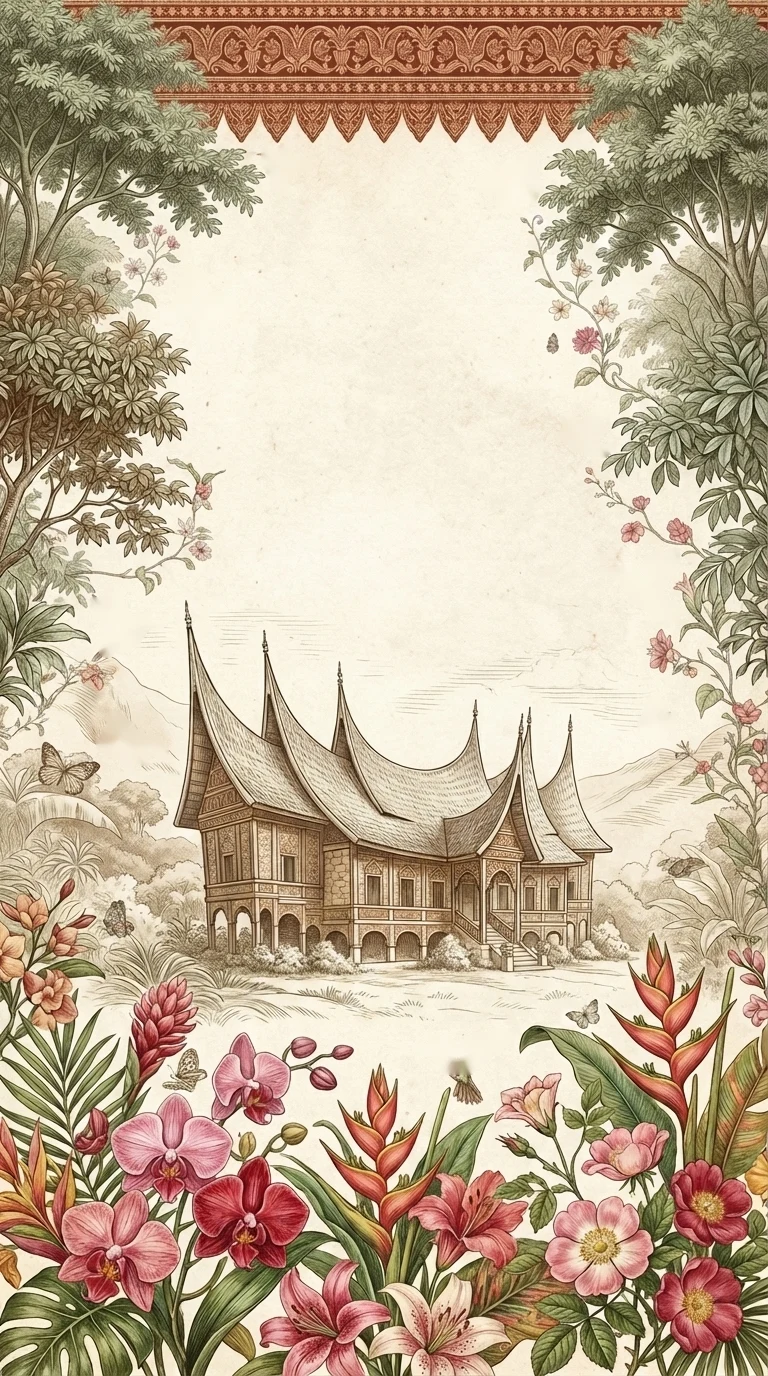
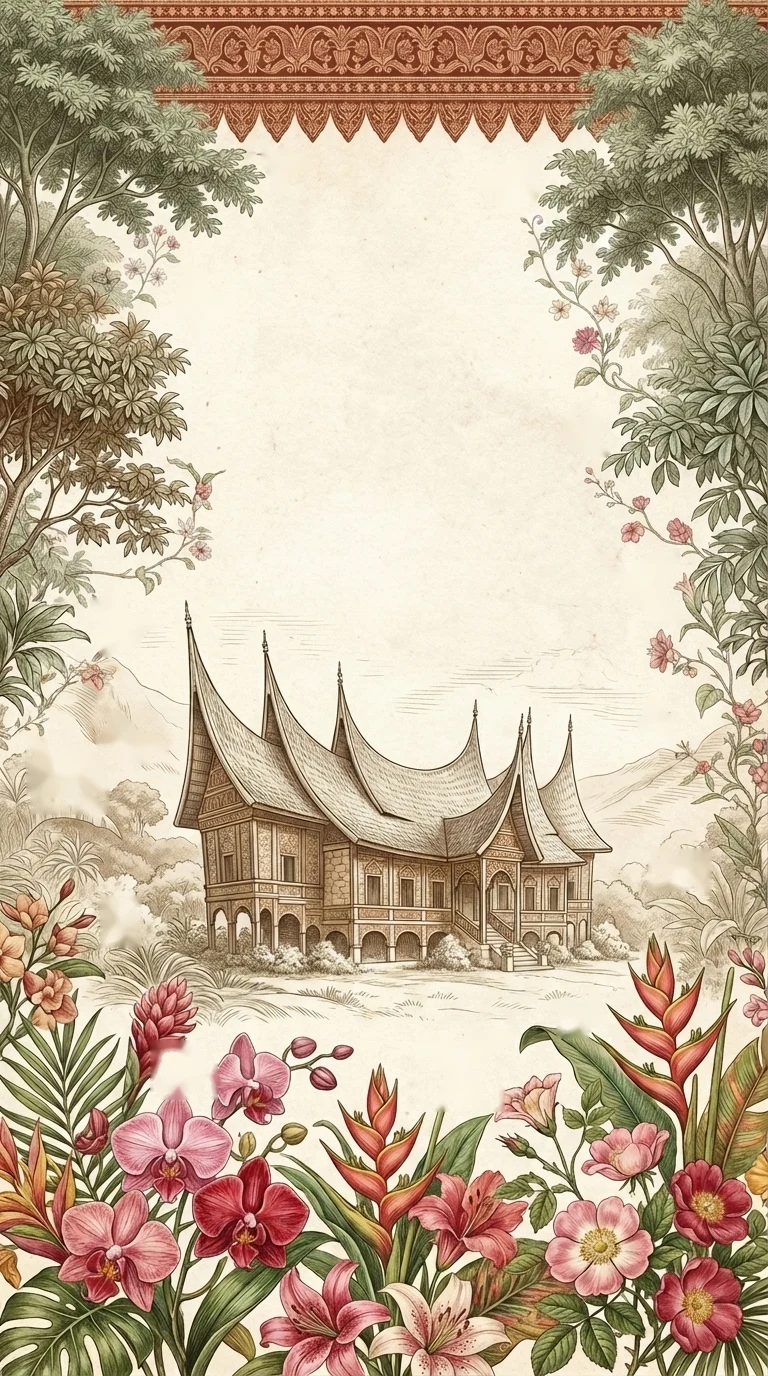
Pembuka tirai bunga & pohon, burung siluet hitam, kupu-kupu pelan di area bunga, hapus kartu tamu
Claude-Session: https://claude.ai/code/session_01MxgjQbkmSSvvZDtBi8Ronz

diff --git a/index.html b/index.html
@@ -48,25 +48,31 @@ main{width:100%;max-width:414px;background:var(--parchment);min-height:100vh;pos
 .spark{position:absolute;z-index:1;color:var(--gold);pointer-events:none;animation:drift 9s ease-in-out infinite}
 @keyframes drift{0%,100%{transform:translate(0,0);opacity:.4}50%{transform:translate(8px,-14px);opacity:.9}}
 
-/* burung & kupu-kupu (sprite bersih) */
-.fly{display:block;will-change:transform;animation:hover var(--dur,4s) ease-in-out infinite;animation-delay:var(--del,0s)}
-.fly img{width:100%;height:auto;animation:buzz .14s linear infinite alternate;transform-origin:60% 50%}
-@keyframes hover{0%,100%{transform:translate(0,0) rotate(0)}25%{transform:translate(8%,-12%) rotate(-3deg)}50%{transform:translate(-5%,-4%) rotate(2deg)}75%{transform:translate(9%,6%) rotate(-1deg)}}
-@keyframes buzz{from{transform:rotate(-.8deg) translateY(-.4px)}to{transform:rotate(.8deg) translateY(.4px)}}
-.fly.bf{animation-name:circle}
-.fly.bf img{animation:flap var(--flap,.34s) ease-in-out infinite alternate;transform-origin:50% 50%}
-@keyframes flap{from{transform:scaleX(1)}to{transform:scaleX(.32)}}
-@keyframes circle{0%,100%{transform:translate(0,0) rotate(-6deg)}25%{transform:translate(-28%,-26%) rotate(8deg)}50%{transform:translate(-8%,-50%) rotate(-4deg)}75%{transform:translate(24%,-20%) rotate(10deg)}}
-.fly.bird{animation-name:hop;animation-duration:5s}
-@keyframes hop{0%,100%{transform:translate(0,0)}20%{transform:translate(-6%,-10%) rotate(-4deg)}40%{transform:translate(4%,-4%)}60%{transform:translate(10%,-14%) rotate(3deg)}}
-/* kolibri yang melintas (flight path seperti rancangan) */
-.glide{position:absolute;z-index:3;pointer-events:none;width:46px;opacity:0;animation:fp1 22s linear infinite}
-.glide img{width:100%;animation:buzz .12s linear infinite alternate}
-.glide.g2{width:38px;animation:fp2 26s linear infinite;animation-delay:-9s}
-.glide.g2 img{transform:scaleX(-1)}
-@keyframes fp1{0%{transform:translate(-50px,35px) rotate(-5deg);opacity:0}12%{opacity:.95}45%{transform:translate(150px,-15px) rotate(2deg)}75%{transform:translate(280px,12px) rotate(-3deg);opacity:.9}100%{transform:translate(440px,-35px) rotate(4deg);opacity:0}}
-@keyframes fp2{0%{transform:translate(420px,175px);opacity:0}14%{opacity:.9}50%{transform:translate(205px,145px) rotate(3deg)}85%{transform:translate(60px,185px) rotate(-2deg);opacity:.85}100%{transform:translate(-50px,160px);opacity:0}}
-
+/* tirai bunga & pohon pembuka */
+.curtain{position:absolute;top:0;left:50%;height:100%;min-width:100%;aspect-ratio:768/1376;transform:translateX(-50%);z-index:1;pointer-events:none}
+.curtain .veil{position:absolute;inset:0;background:radial-gradient(78% 30% at 50% 58%,#faf4e6 72%,rgba(250,244,230,0) 100%);transition:opacity 2.6s ease .5s}
+.curtain img{position:absolute;top:-1%;height:102%;width:62%;will-change:transform}
+.curtain .cL{left:-1%;transform-origin:0% 60%;animation:curL 9s ease-in-out infinite}
+.curtain .cR{right:-1%;transform-origin:100% 60%;animation:curR 10s ease-in-out infinite}
+@keyframes curL{0%,100%{transform:rotate(0) translateX(0)}50%{transform:rotate(.7deg) translateX(.6%)}}
+@keyframes curR{0%,100%{transform:rotate(0) translateX(0)}50%{transform:rotate(-.7deg) translateX(-.6%)}}
+.opened .curtain .cL{animation:openL 4.2s cubic-bezier(.62,0,.18,1) forwards}
+.opened .curtain .cR{animation:openR 4.2s cubic-bezier(.62,0,.18,1) .12s forwards}
+@keyframes openL{0%{transform:translateX(0) rotate(0) scale(1);opacity:1}20%{transform:translateX(3%) rotate(.6deg) scale(1)}100%{transform:translateX(-96%) rotate(-7deg) scale(1.12);opacity:.85}}
+@keyframes openR{0%{transform:translateX(0) rotate(0) scale(1);opacity:1}20%{transform:translateX(-3%) rotate(-.6deg) scale(1)}100%{transform:translateX(96%) rotate(7deg) scale(1.12);opacity:.85}}
+.opened .curtain .veil{opacity:0}
+.curtain.done{display:none}
+.hero-top::before{content:"";position:absolute;inset:-10px -10px -24px;z-index:-1;background:radial-gradient(closest-side,rgba(252,247,236,.92),rgba(252,247,236,.6) 60%,rgba(252,247,236,0));transition:opacity 2.5s ease}
+.opened .hero-top::before{opacity:.5}
+/* burung vektor hitam & kupu-kupu (digerakkan JS) */
+.life{position:absolute;inset:0;pointer-events:none;overflow:hidden;z-index:2}
+.life .bird{position:absolute;left:0;top:0;will-change:transform}
+.life .bird svg{width:100%;height:auto;display:block;overflow:visible}
+.life .bfy{position:absolute;left:0;top:0;will-change:transform}
+.life .bfy img{width:100%;animation:flapS var(--flap,.75s) ease-in-out infinite alternate;transform-origin:50% 50%;filter:drop-shadow(0 2px 2px rgba(60,40,20,.15))}
+@keyframes flapS{0%,15%{transform:scaleX(1)}100%{transform:scaleX(.28)}}
+.btn-open{transition:opacity 1s ease,transform .6s}
+.opened .hero-bottom .btn-open{opacity:0;transform:translateY(16px);pointer-events:none}
 .hero-top{position:relative;z-index:10;padding:calc(clamp(24px,5.5vh,64px) + env(safe-area-inset-top)) 24px 0;text-align:center;display:flex;flex-direction:column;align-items:center}
 .badge{display:inline-flex;align-items:center;gap:8px;padding:4px 14px;border-radius:999px;background:rgba(255,255,255,.75);backdrop-filter:blur(4px);-webkit-backdrop-filter:blur(4px);border:1px solid rgba(197,155,39,.4);box-shadow:0 1px 2px rgba(0,0,0,.05);margin-bottom:10px}
 .badge i{width:6px;height:6px;border-radius:50%;background:var(--crimson)}
@@ -182,6 +188,7 @@ section{position:relative;z-index:10;padding:24px 20px}
 .closing .fam{font-size:10px;font-family:var(--cinzel);letter-spacing:.1em;color:var(--stone-400);margin-top:24px;text-transform:uppercase}
 .closing-art{position:relative;height:300px;overflow:hidden;margin-top:-10px;-webkit-mask-image:linear-gradient(transparent,#000 35%);mask-image:linear-gradient(transparent,#000 35%)}
 .closing-art .stage{top:auto;bottom:0;height:auto;width:100%;min-width:0}
+.closing-art .life{z-index:2}
 
 /* ============ KONTROL MELAYANG ============ */
 .float{position:fixed;bottom:84px;right:max(16px,calc(50vw - 207px + 16px));z-index:40;display:flex;flex-direction:column;align-items:flex-end;gap:8px;opacity:0;transform:translateY(10px);pointer-events:none;transition:opacity .6s,transform .6s}
@@ -271,15 +278,14 @@ section{position:relative;z-index:10;padding:24px 20px}
 
   <!-- ================= SAMPUL ================= -->
   <header class="hero" id="cover">
-    <div class="art"><div class="stage pushin" data-stage="hero"></div></div>
+    <div class="art"><div class="stage pushin" data-stage="hero"></div>
+      <div class="curtain" id="curtain" aria-hidden="true"><div class="veil"></div><img class="cL" src="assets/curtainL.webp" alt=""><img class="cR" src="assets/curtainR.webp" alt=""></div></div>
     <div class="mist" aria-hidden="true"></div>
     <div class="sheen" aria-hidden="true"></div>
+    <div class="life" id="heroLife" aria-hidden="true"></div>
     <span class="spark" style="top:112px;left:24px;font-size:12px">✦</span>
     <span class="spark" style="top:176px;right:32px;font-size:10px;animation-delay:-3s">✧</span>
     <span class="spark" style="top:288px;left:40px;font-size:9px;animation-delay:-5s">✦</span>
-    <i class="glide" aria-hidden="true" style="top:112px;left:0"><img src="assets/hb1.webp" alt=""></i>
-    <i class="glide g2" aria-hidden="true" style="top:120px;left:0"><img src="assets/hb6.webp" alt=""></i>
-
     <div class="hero-top">
       <div class="badge sh-parch" style="--d:.1s"><i></i><span>Baralek Gadang Minangkabau</span><i></i></div>
       <div class="pill-mini" style="--d:.2s"><span style="color:var(--gold)">❧</span><span>Panorama &amp; Ritme Syahdu Ranah Minang</span></div>
@@ -294,11 +300,6 @@ section{position:relative;z-index:10;padding:24px 20px}
     </div>
     <div class="spacer"></div>
     <div class="hero-bottom">
-      <div class="guest-card" style="--d:.85s">
-        <p class="to">Kepada Yth. Bapak/Ibu/Saudara/i</p>
-        <div class="songket"><h3 id="guestName">Nama Tamu Undangan</h3></div>
-        <p class="sorry">Mohon maaf bila ada kesalahan penulisan gelar/nama</p>
-      </div>
       <button class="btn-open" id="openBtn" style="--d:1s">
         <span class="seal gold-seal"><svg viewBox="0 0 24 24" fill="none" stroke="currentColor" stroke-width="2" stroke-linecap="round" stroke-linejoin="round"><path d="M22 10.5V6a2 2 0 00-2-2H4a2 2 0 00-2 2v12a2 2 0 002 2h8"/><path d="M22 7l-10 6L2 7"/><path d="M19 16v6M16 19h6"/></svg></span>
         <span class="label">Buka Undangan</span>
@@ -382,7 +383,7 @@ section{position:relative;z-index:10;padding:24px 20px}
     <p class="nm rv zoom" id="closeNames">Rian &amp; Syherli</p>
     <p class="fam rv">Beserta Keluarga Besar Kedua Mempelai</p>
   </footer>
-  <div class="closing-art" aria-hidden="true"><div class="stage" data-stage="foot"></div></div>
+  <div class="closing-art" aria-hidden="true"><div class="stage" data-stage="foot"></div><div class="life" id="footLife"></div></div>
 </main>
 
 <!-- kontrol melayang -->
@@ -467,18 +468,47 @@ const IC = {
 };
 
 /* ===================== ILUSTRASI HIDUP ===================== */
-const ART = { W:768, H:1376, sprites:{ hb1:[250,135,70,65], bf2:[474,152,68,62], bf3:[165,265,77,75], bd4:[555,405,60,55], hb5:[85,590,80,75],
-  hb6:[598,545,87,80], bf7:[100,710,65,60], bf9:[636,690,40,50], hb13:[410,1022,105,56] } };
-const pos = ([x,y,w]) => `left:${(x/ART.W*100).toFixed(3)}%;top:${(y/ART.H*100).toFixed(3)}%;width:${(w/ART.W*100).toFixed(3)}%`;
-function stageHTML(withSprites){
-  let h = `<img class="base" src="assets/base.webp" alt="Ilustrasi vintage Minangkabau: rumah gadang, pepohonan, anggrek dan pita songket"><canvas></canvas>`;
-  if (!withSprites) return h;
-  let i=0; for (const k in ART.sprites){
-    const kind = k.startsWith('hb') ? '' : k.startsWith('bd') ? 'bird' : 'bf';
-    h += `<i class="fly ${kind}" style="${pos(ART.sprites[k])};--dur:${(kind==='bf'?9:3.8)+(i%4)*1.3}s;--del:-${(i*1.7).toFixed(1)}s;--flap:${(.3+(i%3)*.05).toFixed(2)}s"><img src="assets/${k}.webp" alt=""></i>`; i++; }
-  return h;
+function stageHTML(){ return `<img class="base" src="assets/base.webp" alt="Ilustrasi vintage Minangkabau: rumah gadang, pepohonan, bunga tropis dan pita songket"><canvas></canvas>`; }
+document.querySelectorAll('[data-stage]').forEach(el => el.innerHTML = stageHTML());
+
+/* burung siluet hitam (kepak sayap SVG) & kupu-kupu yang hanya terbang di area bunga */
+const WING = ['M0 6 C7 1 13 3 20 11 C27 3 33 1 40 6 C33 5 27 8 20 14 C13 8 7 5 0 6Z','M0 10 C7 8 13 9 20 11 C27 9 33 8 40 10 C33 10 27 11 20 14 C13 11 7 10 0 10Z','M0 17 C7 15 13 12 20 11 C27 12 33 15 40 17 C33 14 27 12 20 14 C13 12 7 14 0 17Z'];
+const birdSVG = dur => `<svg viewBox="0 0 40 20"><path fill="#1f1a17" d="${WING[1]}"><animate attributeName="d" dur="${dur}s" repeatCount="indefinite" calcMode="spline" keySplines=".4 0 .6 1;.4 0 .6 1;.4 0 .6 1;.4 0 .6 1" values="${WING[0]};${WING[1]};${WING[2]};${WING[1]};${WING[0]}"/></path><ellipse cx="20" cy="12.5" rx="1.6" ry="2.4" fill="#1f1a17"/></svg>`;
+function life(box, birds, flies){
+  if (!box) return;
+  const B = birds.map(b=>{ const el=document.createElement('i'); el.className='bird'; el.style.width=b.size+'px'; el.style.opacity=b.op||.85; el.innerHTML=birdSVG(b.flap); box.appendChild(el); return {...b, el}; });
+  const F = flies.map(f=>{ const el=document.createElement('i'); el.className='bfy'; el.style.width=f.size+'px'; el.style.setProperty('--flap',f.flap+'s'); el.innerHTML=`<img src="assets/${f.img}.webp" alt="">`; box.appendChild(el); return {...f, el}; });
+  let vis=true, raf=0; const t0=performance.now()/1000 - 8;
+  const frame = now => {
+    const t = now/1000 - t0, W = box.clientWidth, H = box.clientHeight;
+    for (const b of B){
+      const p = ((t/b.period) + b.phase) % 1, span = W + b.size*4;
+      const x = b.dir>0 ? -b.size*2 + p*span : W + b.size*2 - p*span;
+      const y = b.y*H + Math.sin(t*.7 + b.phase*7)*b.bob + Math.sin(p*Math.PI*2)*b.bob*1.6;
+      const tilt = Math.cos(t*.7 + b.phase*7)*b.dir*4;
+      b.el.style.transform = `translate3d(${x.toFixed(1)}px,${y.toFixed(1)}px,0) rotate(${tilt.toFixed(1)}deg)`;
+    }
+    for (const f of F){   // lintasan Lissajous lambat, tetap di dalam area bunga
+      const a = t*f.w1 + f.ph, c = t*f.w2 + f.ph*1.7;
+      const x = (f.cx + f.ax*Math.sin(a) + .015*Math.sin(t*.9+f.ph))*W, y = (f.cy + f.ay*Math.sin(c) + .01*Math.sin(t*1.4+f.ph))*H;
+      const rot = Math.cos(a)*14;
+      f.el.style.transform = `translate3d(${(x-f.size/2).toFixed(1)}px,${(y-f.size/2).toFixed(1)}px,0) rotate(${rot.toFixed(1)}deg)`;
+    }
+    raf = vis ? requestAnimationFrame(frame) : 0;
+  };
+  if (reduce){ frame(performance.now()); return; }
+  new IntersectionObserver(es=>{ vis=es[0].isIntersecting; if(vis && !raf) raf=requestAnimationFrame(frame); }).observe(box);
+  raf = requestAnimationFrame(frame);
 }
-document.querySelectorAll('[data-stage]').forEach(el => el.innerHTML = stageHTML(el.dataset.stage==='hero'));
+life($('#heroLife'),
+  [ {y:.10,size:26,period:34,dir:1,bob:10,phase:.05,flap:.62}, {y:.14,size:18,period:40,dir:1,bob:8,phase:.18,flap:.52,op:.7},
+    {y:.20,size:22,period:37,dir:1,bob:9,phase:.11,flap:.58,op:.8}, {y:.30,size:20,period:44,dir:-1,bob:12,phase:.55,flap:.56,op:.75},
+    {y:.36,size:14,period:50,dir:-1,bob:7,phase:.62,flap:.48,op:.6} ],
+  [ {img:'bf2',size:30,cx:.16,cy:.80,ax:.10,ay:.05,w1:.16,w2:.23,ph:0,flap:.78},  {img:'bf3',size:34,cx:.82,cy:.78,ax:.10,ay:.05,w1:.13,w2:.19,ph:2,flap:.85},
+    {img:'bf7',size:28,cx:.50,cy:.90,ax:.14,ay:.03,w1:.11,w2:.21,ph:4,flap:.72},  {img:'bf9',size:22,cx:.30,cy:.72,ax:.08,ay:.04,w1:.18,w2:.26,ph:1,flap:.7} ]);
+life($('#footLife'),
+  [ {y:.10,size:20,period:38,dir:1,bob:6,phase:.3,flap:.58,op:.75}, {y:.18,size:15,period:46,dir:-1,bob:5,phase:.7,flap:.5,op:.65} ],
+  [ {img:'bf3',size:28,cx:.22,cy:.72,ax:.12,ay:.08,w1:.14,w2:.2,ph:3,flap:.8}, {img:'bf2',size:24,cx:.78,cy:.78,ax:.1,ay:.07,w1:.12,w2:.22,ph:5,flap:.75} ]);
 
 // WebGL: pohon & bunga bergoyang dengan melenturkan gambar utuh (tanpa potongan)
 function liveArt(stage){
@@ -537,7 +567,7 @@ $('#closeNames').textContent = `${G.nick} & ${B.nick}`;
 document.title = `The Wedding of ${G.nick} & ${B.nick} - Undangan Pernikahan Minangkabau`;
 (()=>{ let n=''; try{ n = new URLSearchParams(location.search).get('to') || ''; }catch(e){}
   if(!n){ try{ n = decodeURIComponent(location.hash.slice(1)).replace(/[-_+]/g,' '); }catch(e){} }
-  n = n.trim(); if (n && !/^(cover|greeting|couple|event|story|rsvp|pepatah|closing)$/i.test(n)) { $('#guestName').textContent = n; $('#fName').value = n; } })();
+  n = n.trim(); if (n && !/^(cover|greeting|couple|event|story|rsvp|pepatah|closing)$/i.test(n)) $('#fName').value = n; })();
 function person(p, el, putra){
   el.innerHTML = `<div class="person"><div class="mono">${p.photo?`<img src="${esc(p.photo)}" alt="${esc(p.full)}">`:`<span>${esc(p.nick[0])}</span>`}</div>
     <h3>${esc(p.full)}</h3>${p.gala?`<p class="gala">${esc(p.gala)}</p>`:''}<div class="songket"></div>
@@ -587,8 +617,7 @@ function petal(burst){
   p.innerHTML=`<svg viewBox="0 0 24 24" fill="${PCOL[Math.random()*PCOL.length|0]}" style="width:100%;height:100%;opacity:${(.7+Math.random()*.25).toFixed(2)};filter:drop-shadow(0 2px 4px rgba(139,30,30,.12))"><path d="M12 2C9.5 5 5 9.5 5 14c0 3.87 3.13 7 7 7s7-3.13 7-7c0-4.5-4.5-9-7-12z"/></svg>`;
   parts.appendChild(p); setTimeout(()=>p.remove(), (dur+del)*1000);
 }
-const BF = ['bf2','bf3','bf7','bf9'];
-function butterfly(){ if (reduce) return; const b=document.createElement('div'), dur=18+Math.random()*8; b.className='bfloat';
+function butterfly(){ return; if (reduce) return; const b=document.createElement('div'), dur=18+Math.random()*8; b.className='bfloat';
   b.style.cssText=`left:${12+Math.random()*76}%;animation-duration:${dur}s`; b.innerHTML=`<img src="assets/${BF[Math.random()*BF.length|0]}.webp" alt="">`;
   parts.appendChild(b); setTimeout(()=>b.remove(), dur*1000); }
 let ambient = 0;
@@ -639,7 +668,7 @@ let storyOpen=false, storyDone=false, scrolling=false;
 const GUIDE_H = 150;
 function chapterNow(){ let i=0; CHAPTERS.forEach((c,k)=>{ if (c.el.getBoundingClientRect().top <= innerHeight*.35) i=k; }); return i; }
 const contentBottom = i => CHAPTERS[i].el.getBoundingClientRect().bottom - 20;
-function moreInside(i){ return contentBottom(i) > innerHeight - GUIDE_H + 24; }
+function moreInside(i){ if (i===0) return false; return contentBottom(i) > innerHeight - GUIDE_H + 24; }
 function atEnd(){ return scrollY + innerHeight >= document.documentElement.scrollHeight - 40 || CHAPTERS.at(-1).el.getBoundingClientRect().top < innerHeight*.55; }
 function setCap(l,t){ gLbl.textContent=l; if(gNext.textContent!==t){ gNext.textContent=t; gNext.classList.remove('swap'); void gNext.offsetWidth; gNext.classList.add('swap'); } }
 function updateGuide(){
@@ -661,14 +690,16 @@ $('#guideBtn').addEventListener('click', ()=>{ if(scrolling) return; const i=cha
   if (moreInside(i)) glide(scrollY + Math.min(contentBottom(i) - (innerHeight-GUIDE_H) + 40, innerHeight*.66));
   else if (i < CHAPTERS.length-1) glide(scrollY + CHAPTERS[i+1].el.getBoundingClientRect().top - 8); });
 
-/* buka undangan: kelopak memancar, musik mulai, lalu meluncur ke salam */
+/* buka undangan: tirai bunga & pohon membuka perlahan, memperlihatkan rumah gadang */
 $('#openBtn').addEventListener('click', e=>{
-  const r = e.currentTarget.getBoundingClientRect(); burstAt(r.left+r.width/2, r.top+r.height/2, 18);
+  const btn = e.currentTarget; if (btn.disabled) return; btn.disabled = true;
+  const r = btn.getBoundingClientRect(); burstAt(r.left+r.width/2, r.top+r.height/2, 18);
   history.replaceState(null,'',location.pathname+location.search);
-  Music.start(); startAmbient();
-  document.body.classList.remove('locked'); document.body.classList.add('show-float'); observe();
-  e.currentTarget.querySelector('.label').textContent = 'Undangan Dibuka';
-  setTimeout(()=>{ glide($('#greeting').offsetTop - 8); storyOpen = true; setTimeout(()=>{ guide.classList.add('show'); updateGuide(); }, 900); }, 500);
+  Music.start(); document.body.classList.add('opened');
+  const T = reduce ? [300,600] : [3800,4600];
+  setTimeout(()=>{ document.body.classList.remove('locked'); document.body.classList.add('show-float'); observe(); startAmbient();
+    storyOpen = true; guide.classList.add('show'); updateGuide(); }, T[0]);
+  setTimeout(()=>$('#curtain').classList.add('done'), T[1]);
 });
 </script>
 </body>

diff --git a/tools/curtain.py b/tools/curtain.py
@@ -1,0 +1,52 @@
+"""Buat tirai bunga+pohon kiri/kanan (PNG ber-alpha) dari ilustrasi bersih untuk animasi pembuka."""
+import sys, numpy as np, cv2
+from PIL import Image
+base, out = sys.argv[1], sys.argv[2]
+im = np.array(Image.open(base).convert('RGB')).astype(np.float32); H, W = im.shape[:2]
+paper = np.array([249,242,224],np.float32)
+def alpha_of(a):
+    d = np.sqrt(((a-paper)**2).sum(-1))
+    m = np.clip((d-16)/26,0,1)
+    m = cv2.morphologyEx(m, cv2.MORPH_CLOSE, np.ones((9,9),np.uint8))
+    return cv2.GaussianBlur(m,(0,0),1.2)
+def over(dst_rgb, dst_a, src_rgb, src_a, x, y):
+    h, w = src_a.shape; X0, Y0 = max(0,x), max(0,y); X1, Y1 = min(dst_a.shape[1], x+w), min(dst_a.shape[0], y+h)
+    if X1<=X0 or Y1<=Y0: return
+    s = src_a[Y0-y:Y1-y, X0-x:X1-x][...,None]; c = src_rgb[Y0-y:Y1-y, X0-x:X1-x]
+    da = dst_a[Y0:Y1,X0:X1][...,None]
+    dst_rgb[Y0:Y1,X0:X1] = c*s + dst_rgb[Y0:Y1,X0:X1]*(1-s)
+    dst_a[Y0:Y1,X0:X1] = (s + da*(1-s))[...,0]
+def feather(shape):
+    h,w = shape; t = np.clip(np.arange(h)/110,0,1); t = t*t*(3-2*t)       # tepi atas tiap rumpun memudar
+    b = np.clip((h-np.arange(h))/30,0,1)
+    return (t*b)[:,None]*np.ones((1,w))
+PW = int(W*0.62)                                    # tiap tirai menutupi 62% lebar → tumpang tindih di tengah
+flo = im[985:H, 0:W//2+40]; floA = alpha_of(flo); floA *= feather(floA.shape)     # rumpun bunga kiri
+tree = im[0:590, 0:340]; treeA = alpha_of(tree); treeA *= np.clip((590-np.arange(590))/90,0,1)[:,None]   # berhenti di atas atap rumah
+treeA *= np.clip((340-np.arange(340))/60,0,1)[None,:]  # pudar di tepi kanan potongan pohon
+rgb = np.tile(paper,(H,PW,1)).astype(np.float32); A = np.zeros((H,PW),np.float32)
+# lapisan bunga bertumpuk dari bawah ke atas, digeser agar tidak tampak berulang
+for (x,y,sc) in [(30,-80,.95),(-50,40,1.0),(150,150,.9),(0,250,1.0),(170,360,.95),(-40,460,1.05),(120,570,.95),(-20,680,1.0),(160,780,.95),(-60,890,1.05),(100,990,1.0)]:
+    f = cv2.resize(flo,(0,0),fx=sc,fy=sc); fa = cv2.resize(floA,(0,0),fx=sc,fy=sc)
+    over(rgb,A,f,fa,x,y)
+over(rgb,A,tree,treeA,0,-40)
+# tepi dalam bergerigi alami: pudar di 18% terakhir mengikuti isi
+ramp = np.clip((PW-np.arange(PW))/(PW*0.16),0,1)[None,:]
+A *= ramp
+A = np.clip(A*1.15,0,1)
+Lp = np.dstack([rgb, A*255]).clip(0,255).astype(np.uint8)
+Image.fromarray(Lp,'RGBA').resize((PW*3//4, H*3//4), Image.LANCZOS).save(f'{out}/curtainL.webp', quality=82)
+# tirai kanan: dari rumpun bunga kanan + pohon kanan
+flo = im[985:H, W//2-40:W]; floA = alpha_of(flo); floA *= feather(floA.shape)
+tree = im[0:680, 500:W]; treeA = alpha_of(tree); treeA *= np.clip((680-np.arange(680))/90,0,1)[:,None]; treeA *= np.clip((np.arange(W-500))/60,0,1)[None,:]
+rgb = np.tile(paper,(H,PW,1)).astype(np.float32); A = np.zeros((H,PW),np.float32)
+fw = flo.shape[1]
+for (x,y,sc) in [(PW-fw-30,-80,.95),(PW-fw+50,40,1.0),(PW-fw-150,150,.9),(PW-fw,250,1.0),(PW-fw-170,360,.95),(PW-fw+40,460,1.05),(PW-fw-120,570,.95),(PW-fw+20,680,1.0),(PW-fw-160,780,.95),(PW-fw+60,890,1.05),(PW-fw-100,990,1.0)]:
+    f = cv2.resize(flo,(0,0),fx=sc,fy=sc); fa = cv2.resize(floA,(0,0),fx=sc,fy=sc)
+    over(rgb,A,f,fa,x,y)
+over(rgb,A,tree,treeA,PW-tree.shape[1],-40)
+A *= np.clip(np.arange(PW)/(PW*0.16),0,1)[None,:]
+A = np.clip(A*1.15,0,1)
+Rp = np.dstack([rgb, A*255]).clip(0,255).astype(np.uint8)
+Image.fromarray(Rp,'RGBA').resize((PW*3//4, H*3//4), Image.LANCZOS).save(f'{out}/curtainR.webp', quality=82)
+print('ok', PW)

diff --git a/tools/layers.py b/tools/layers.py
@@ -8,7 +8,7 @@ SPR = {'hb1':(250,135,320,200),'bf2':(474,152,542,214),'bf3':(165,265,242,340),'
        'hb6':(598,545,685,625),'bf7':(100,710,165,770),'bf8':(30,735,105,792),'bf9':(636,690,676,740),'bf11':(560,995,605,1035),
        'hb13':(410,1022,515,1078),'bf14':(540,325,565,360)}
 # sprite yang menempel ke dedaunan dibiarkan diam di latar (tidak dipisah)
-for k in ('bf8','bf11','bf14'): SPR.pop(k)
+EXPORT = {'bf2','bf3','bf7','bf9'}   # hanya kupu-kupu yang dipakai; semua burung & kupu dihapus dari latar
 # area di dalam kotak sprite yang bukan bagian tubuh burung/kupu (daun, ranting) — koordinat lokal
 EXCL = {'hb1':[[(0,0),(14,0),(14,65),(0,65)]], 'hb5':[[(0,38),(30,75),(0,75)],[(0,0),(16,0),(16,10),(0,10)]], 'hb13':[[(0,49),(105,49),(105,56),(0,56)]],
         'bf7':[[(0,52),(65,52),(65,60),(0,60)]]}
@@ -42,11 +42,18 @@ for k,(x0,y0,x1,y1) in SPR.items():
     col = np.where(a[...,None]>0.02, col, c)
     rgba = np.dstack([col, a*255]).astype(np.uint8)
     # 2x untuk ketajaman
-    img = Image.fromarray(rgba,'RGBA').resize(((x1-x0)*2,(y1-y0)*2), Image.LANCZOS)
-    img.save(f'{out}/{k}.webp', quality=92)
-    meta['sprites'][k] = [x0,y0,x1-x0,y1-y0]
+    if k in EXPORT:
+        img = Image.fromarray(rgba,'RGBA').resize(((x1-x0)*2,(y1-y0)*2), Image.LANCZOS)
+        img.save(f'{out}/{k}.webp', quality=92)
+        meta['sprites'][k] = [x0,y0,x1-x0,y1-y0]
     full = np.zeros((H,W),np.uint8); full[y0:y1,x0:x1] = sil
     inpaint |= cv2.dilate(full, np.ones((9,9),np.uint8))
+# sisa burung/kupu kecil yang tidak dijadikan sprite
+for (x0,y0,x1,y1) in [(100,895,142,948),(150,1040,218,1100),(648,848,712,892),(430,1060,505,1112),(30,770,110,815),(60,770,100,800)]:
+    c8 = im[y0:y1,x0:x1]; L = cv2.cvtColor(c8, cv2.COLOR_RGB2GRAY).astype(np.float32)
+    bg = np.percentile(np.concatenate([L[0],L[-1],L[:,0],L[:,-1]]),70)
+    m = (L < bg-30).astype(np.uint8); m = cv2.dilate(m, np.ones((7,7),np.uint8))
+    inpaint[y0:y1,x0:x1] |= m
 clean = cv2.cvtColor(cv2.inpaint(cv2.cvtColor(im,cv2.COLOR_RGB2BGR), inpaint, 7, cv2.INPAINT_TELEA), cv2.COLOR_BGR2RGB)
 Image.fromarray(clean).save(f'{out}/base.webp', quality=88)
 # ---- peta angin ----

diff --git a/README.md b/README.md
@@ -6,17 +6,19 @@ burung kolibri, kupu-kupu, dan bunga tropis (anggrek, heliconia, lili).
 
 ## Ilustrasi hidup
 Tampilan mengikuti rancangan "Pusaka Marawa" (Stitch): krem perkamen, merah marawa, emas songket; font Cinzel, Cormorant Garamond, Pinyon Script, Plus Jakarta Sans.
-`tools/layers.py` mengolah ilustrasi sumber (768×1376) menjadi:
-- `assets/base.webp` — ilustrasi utuh; burung & kupu-kupu dihapus lalu ditambal (inpaint)
-- `assets/wind.png` — peta angin (merah = pohon, hijau = bunga). Gambar utuh dilenturkan di WebGL sesuai peta ini,
-  jadi pohon & bunga bergoyang tanpa dipotong-potong
-- `assets/hb*.webp`, `bf*.webp`, `bd4.webp` — burung kolibri, kupu-kupu, burung kecil dengan latar transparan bersih (2× resolusi)
-Catatan: efek WebGL butuh halaman dibuka lewat http(s); bila dibuka langsung sebagai file, ilustrasi tampil diam.
+- `assets/base.webp` — ilustrasi utuh; semua burung & kupu-kupu bawaan dihapus (inpaint) oleh `tools/layers.py`
+- `assets/wind.png` — peta angin (merah = pohon, hijau = bunga); gambar dilenturkan di WebGL sehingga pohon & bunga bergoyang tanpa dipotong
+- `assets/curtainL|curtainR.webp` — tirai bunga & pohon untuk pembuka (dibuat `tools/curtain.py` dari ilustrasi yang sama);
+  saat "Buka Undangan" ditekan, tirai membuka perlahan memperlihatkan rumah gadang
+- Burung = siluet vektor hitam (SVG) dengan kepak sayap, terbang melintasi langit
+- `assets/bf*.webp` — kupu-kupu (latar transparan) yang hanya melayang pelan di area bunga
+Efek WebGL butuh halaman dibuka lewat http(s); bila dibuka sebagai file, ilustrasi tampil diam.
 
-Regenerasi: `pip install opencv-python-headless pillow numpy` lalu `python3 tools/layers.py sumber.png assets`.
+Regenerasi: `pip install opencv-python-headless pillow numpy`, lalu
+`python3 tools/layers.py sumber.png assets` dan `python3 tools/curtain.py assets/base.webp assets`.
 
 ## Fitur
-- Sampul + nama tamu (`index.html?to=Nama%20Tamu` atau `index.html#Nama-Tamu`), animasi buka: kamera mendekat ke rumah gadang
+- Sampul dengan tirai bunga; nama tamu dari link (`?to=Nama` / `#Nama-Tamu`) otomatis mengisi kolom nama RSVP
 - Musik kotak musik (dibuat di browser) dengan tombol on/off
 - Tombol gulir bercerita; menu ☰ dan tombol RSVP muncul setelah cerita selesai
 - Konten muncul halus saat digulir dan memudar turun saat digulir ke atas
